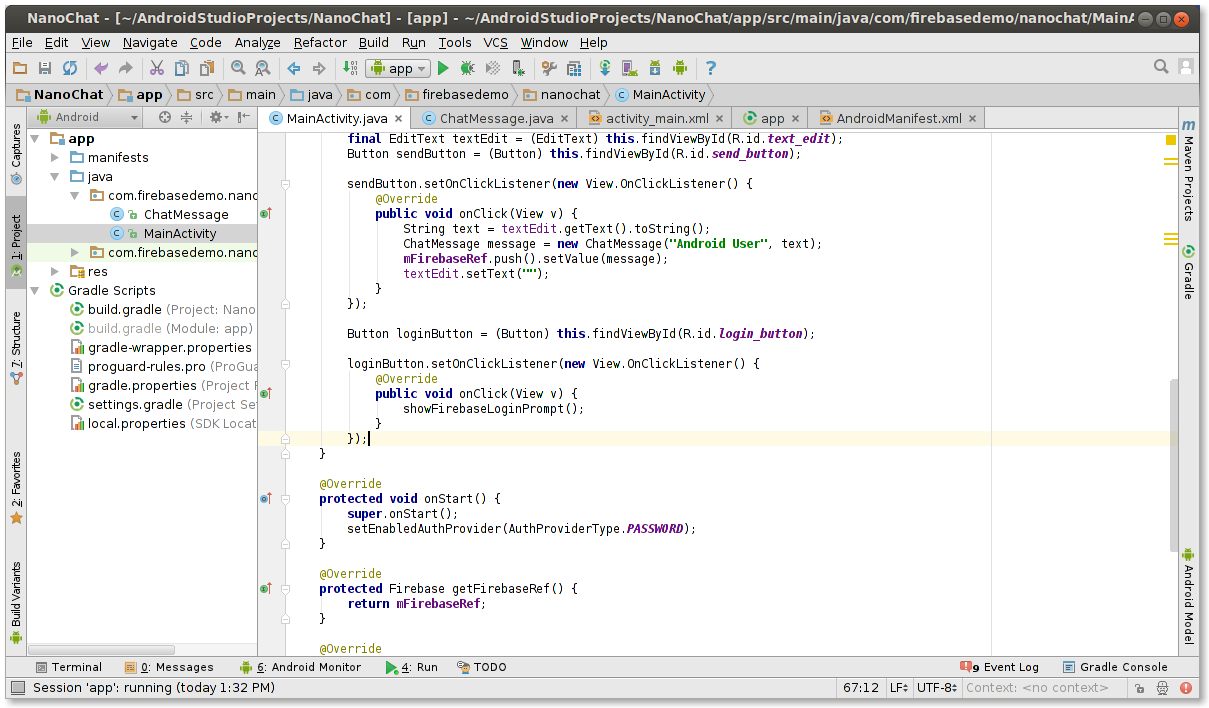
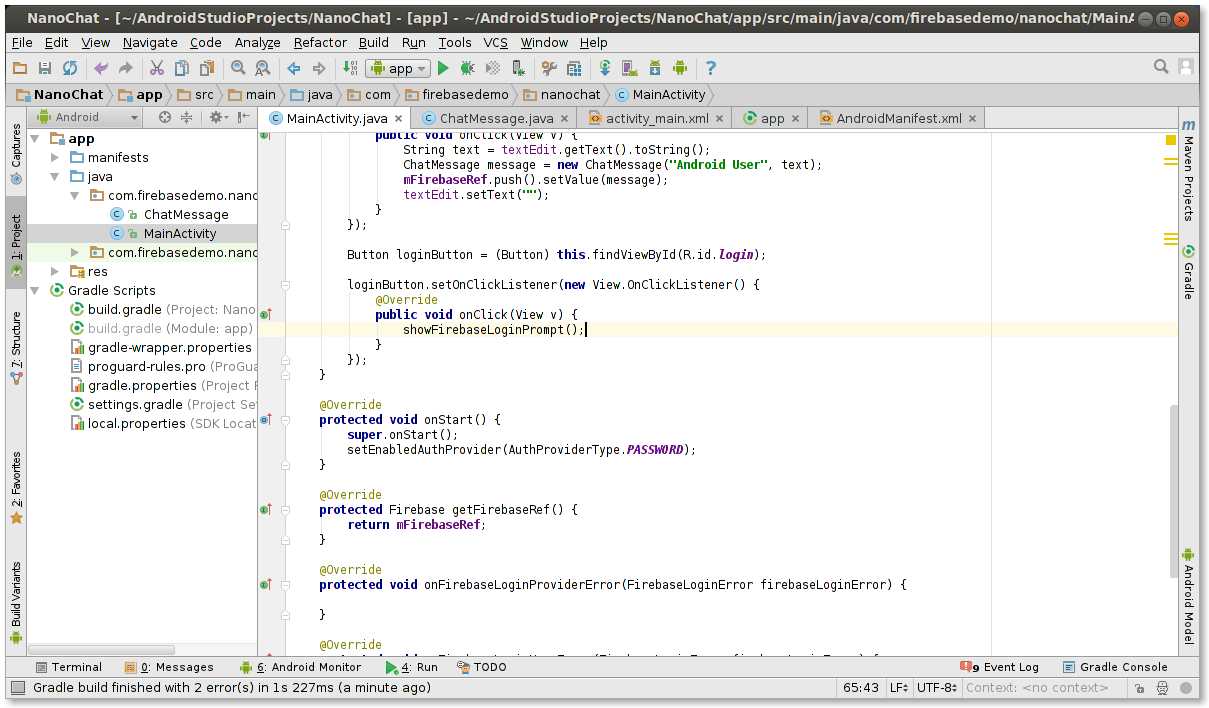
Codelab changes

diff --git a/codelabs/chat/README.md b/codelabs/chat/README.md
@@ -436,7 +436,7 @@ protected void onStart() {
 5. Wire up login button
 
 ```java
-Button loginButton = (Button) this.findViewById(R.id.login_button);
+Button loginButton = (Button) this.findViewById(R.id.login);
 
 loginButton.setOnClickListener(new View.OnClickListener() {
     @Override
@@ -448,7 +448,7 @@ loginButton.setOnClickListener(new View.OnClickListener() {
 
 ![Enable PASSWORD auth](images/6_5.png)
 
-If you want to know which users logged in to your application, you can find them in the Login & Auth tab of your Firebase's dashboard.
+Now go into your Firebase Dashboard and go to the Auth tab and select "Email/Password". You'll see an "Add User" button. Create a user to test logging in with.
 
 ![Auth dashboard with some users](images/6_10.png)
 
